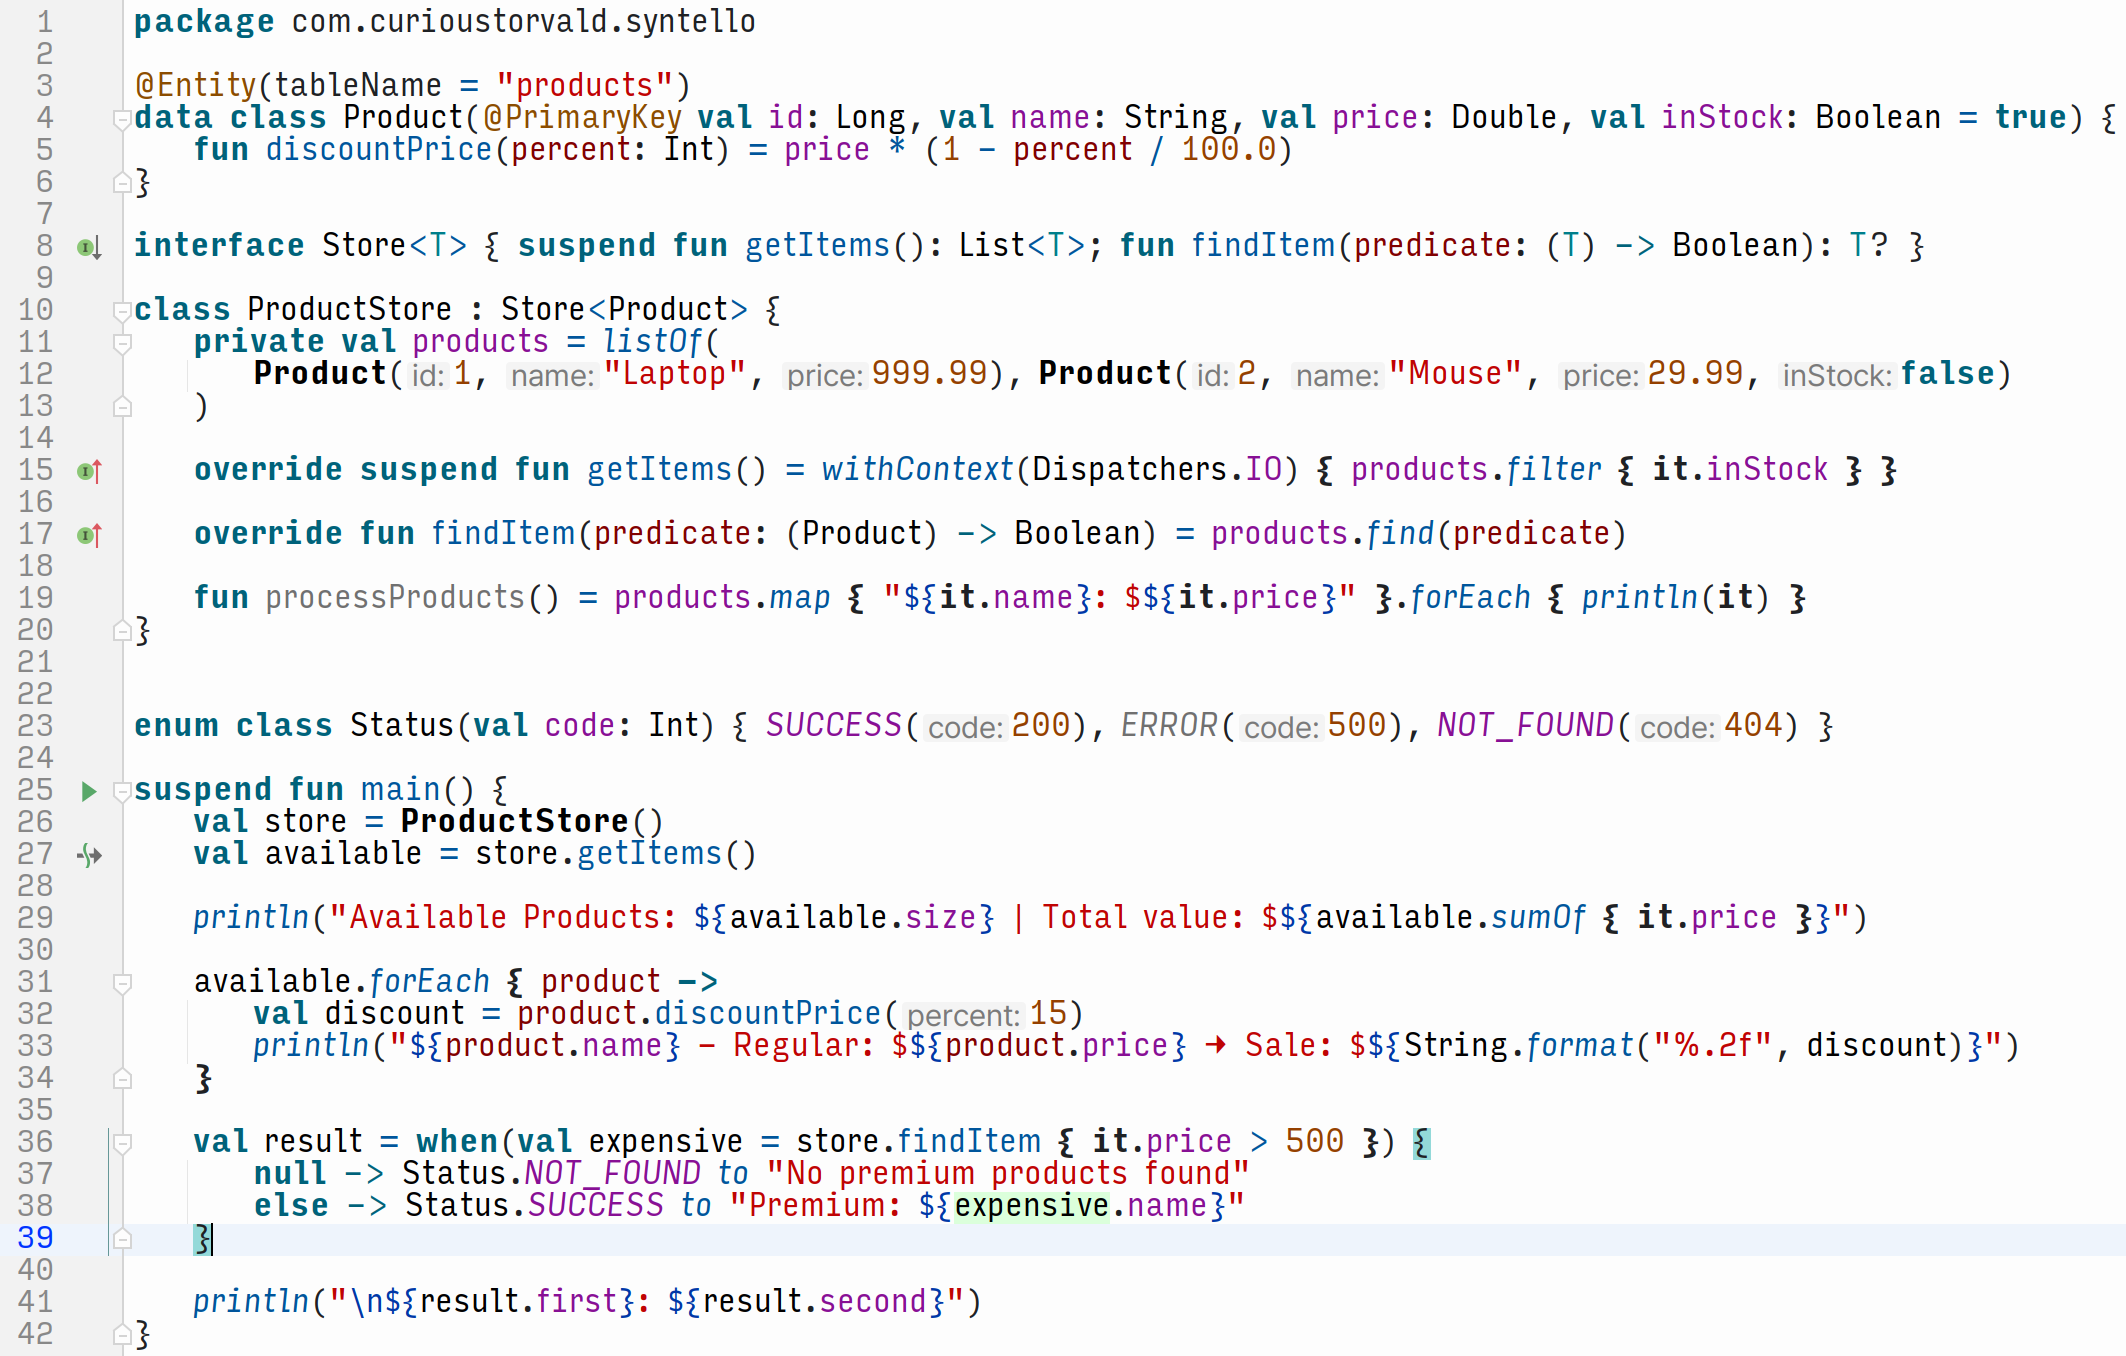
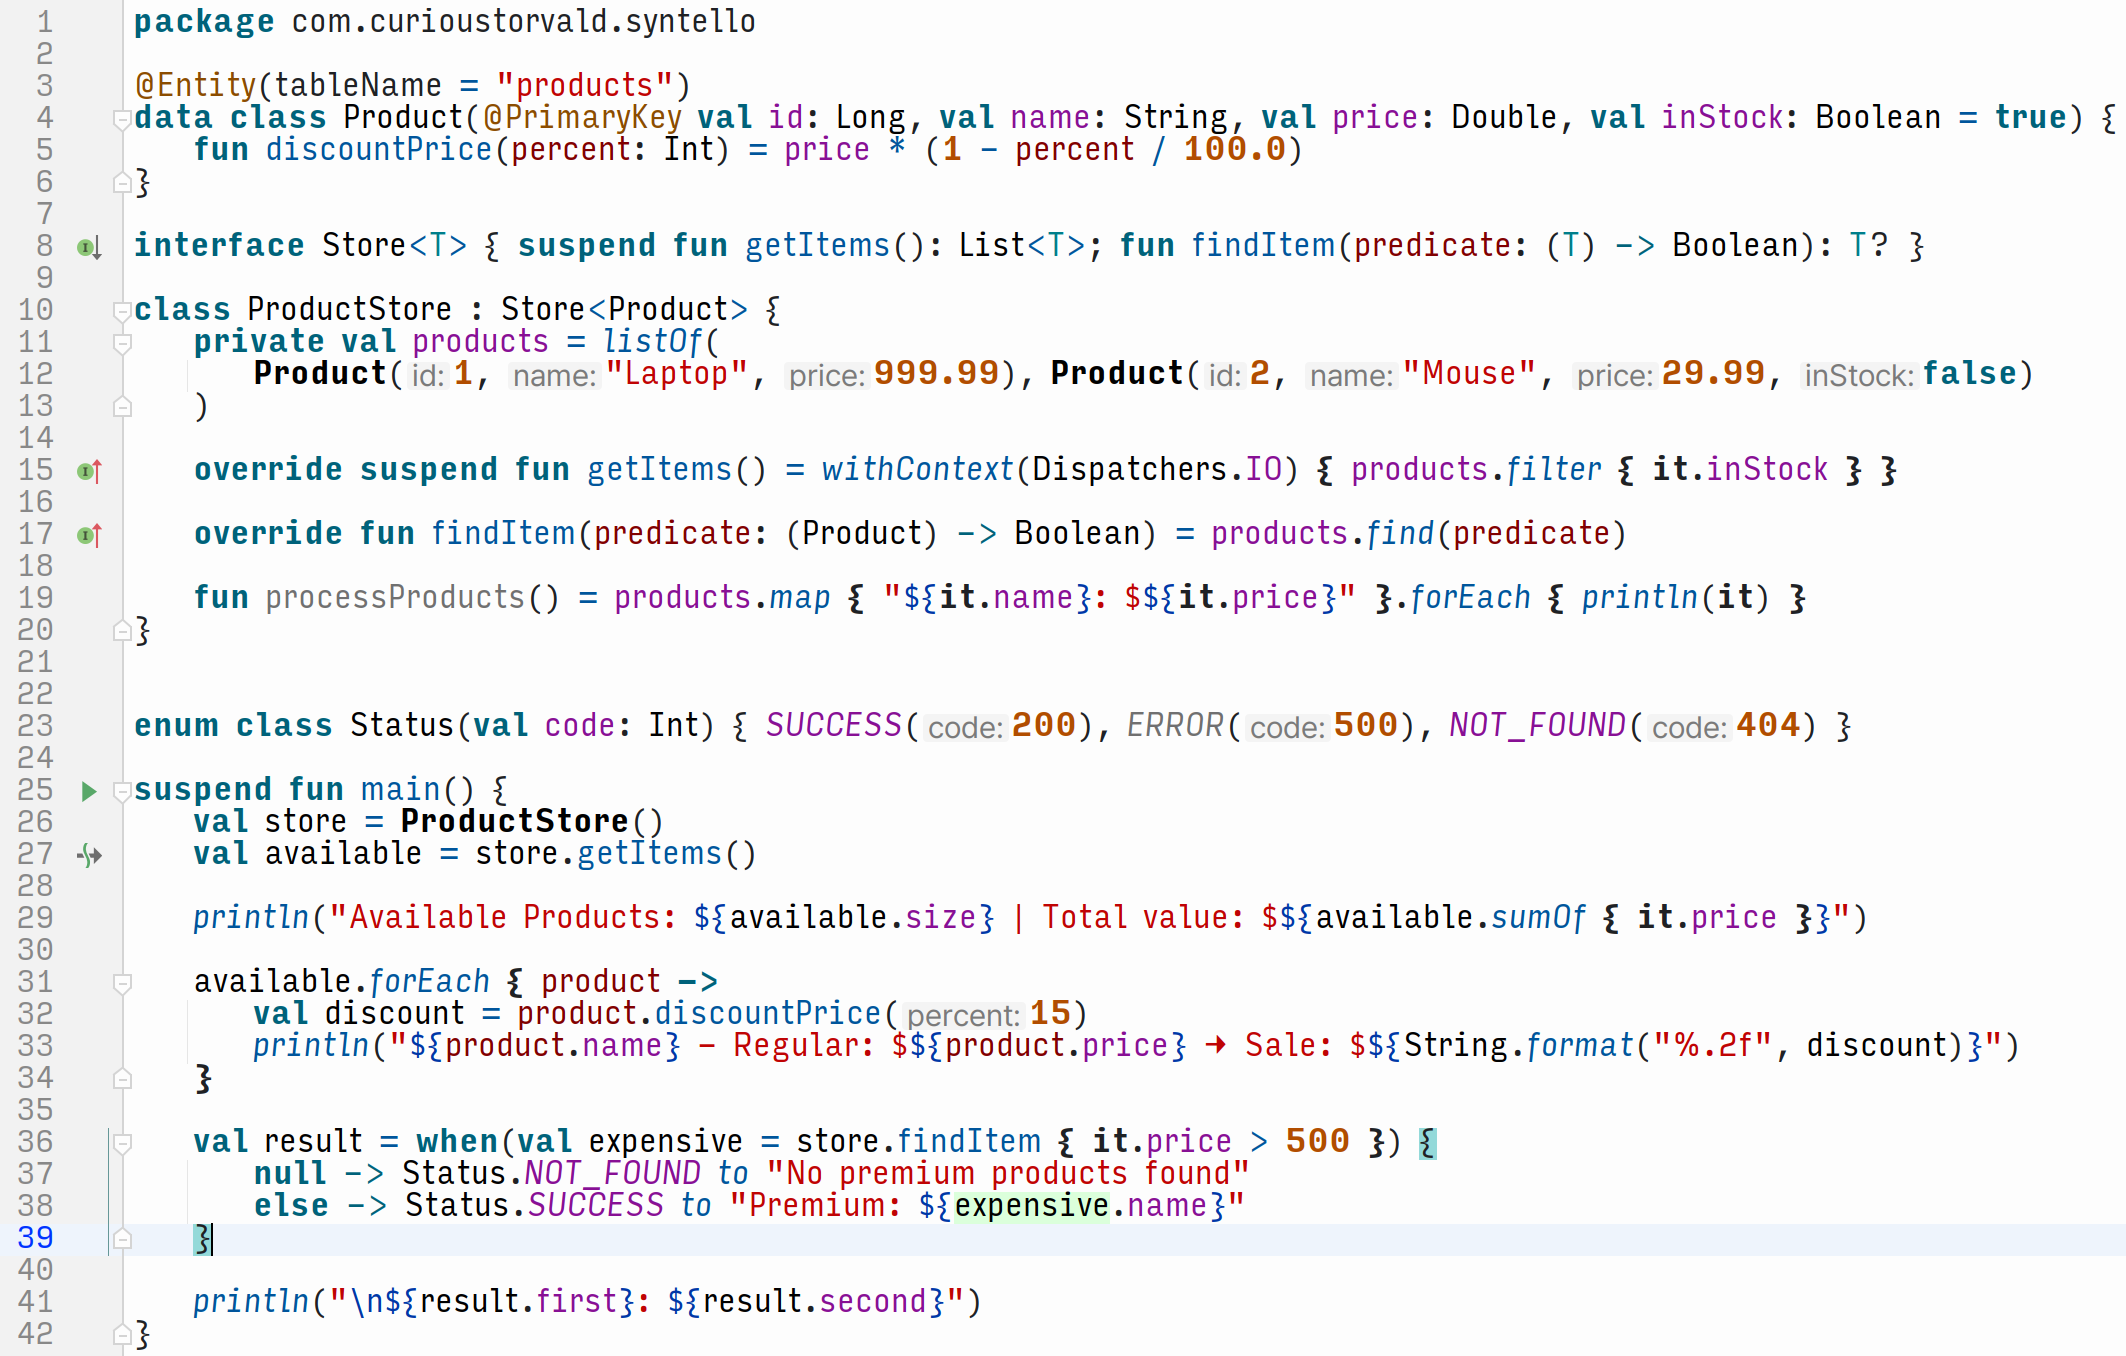
better numbers legibility

diff --git a/README.md b/README.md
@@ -25,7 +25,7 @@ Keywords:       #00627A  rgb(0, 98, 122)    — Ocean depth (bold text)
 Functions:      #00559B  rgb(0, 85, 155)    — Royal azure
 Operators:      #00559B  rgb(0, 85, 155)    — Same as functions
 Strings:        #BF0303  rgb(191, 3, 3)     — Ruby red
-Numbers:        #944000  rgb(148, 64, 0)    — Autumn amber
+Numbers:        #B14D00  rgb(177, 77, 0)    — Autumn amber
 Variables:      #871094  rgb(135, 16, 148)  — Royal purple
 Comments:       #707070  rgb(112, 112, 112) — Balanced grey
 Selection:      #A6D2FF  rgb(166, 210, 255) — Sky wash
@@ -38,7 +38,7 @@ Current Line:   #EEF4FC  rgb(238, 244, 252) — Whisper blue
 
 **Royal purple constants (#871094)** — Purple has the shortest wavelength visible to humans, making it naturally distinct from other syntax elements. Syntello's purple sits at 295° on the colour wheel—not too pink or too blue, with 89% saturation. It's regal without being garish, distinctive without being distracting.
 
-**Autumn amber numbers (#944000)** — Why not pure orange? Because #FF8800 vibrates against white backgrounds, causing chromatic aberration. Our burnt amber maintains the "warning" semantic of orange (important for spotting number typos) while adding earthy stability. The 100% saturation at 35% lightness creates what photographers call "golden hour" warmth—visible but never harsh.
+**Autumn amber numbers (#B14D00)** — Why not pure orange? Because #FF8800 vibrates against white backgrounds, causing chromatic aberration. Our burnt amber maintains the "warning" semantic of orange (important for spotting number typos) while adding earthy stability. The 100% saturation at 35% lightness creates what photographers call "golden hour" warmth—visible but never harsh.
 
 **Balanced gray comments (#707070)** — The most debated colour. Too dark, and comments distract. Too light, and they are unreadable. #707070 hits the mathematical sweet spot: exactly 44% lightness, creating 4.86:1 contrast—just above WCAG AA requirements. But here's the subtle genius: this gray has zero colour cast. No blue (cold), no brown (muddy), no green (sickly)—pure neutral gray that your brain naturally de-prioritises.
 
